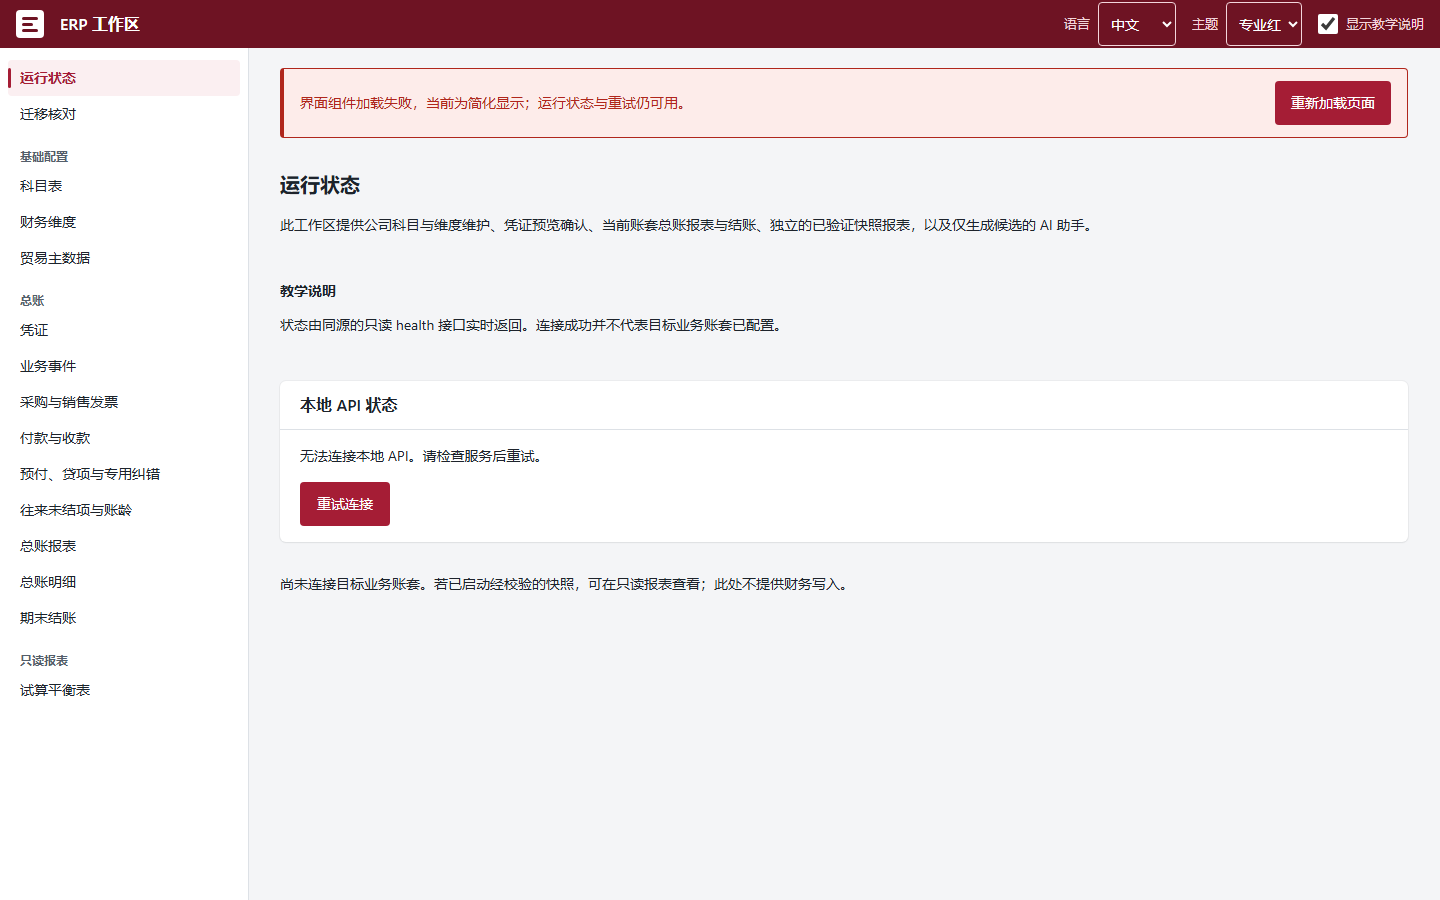
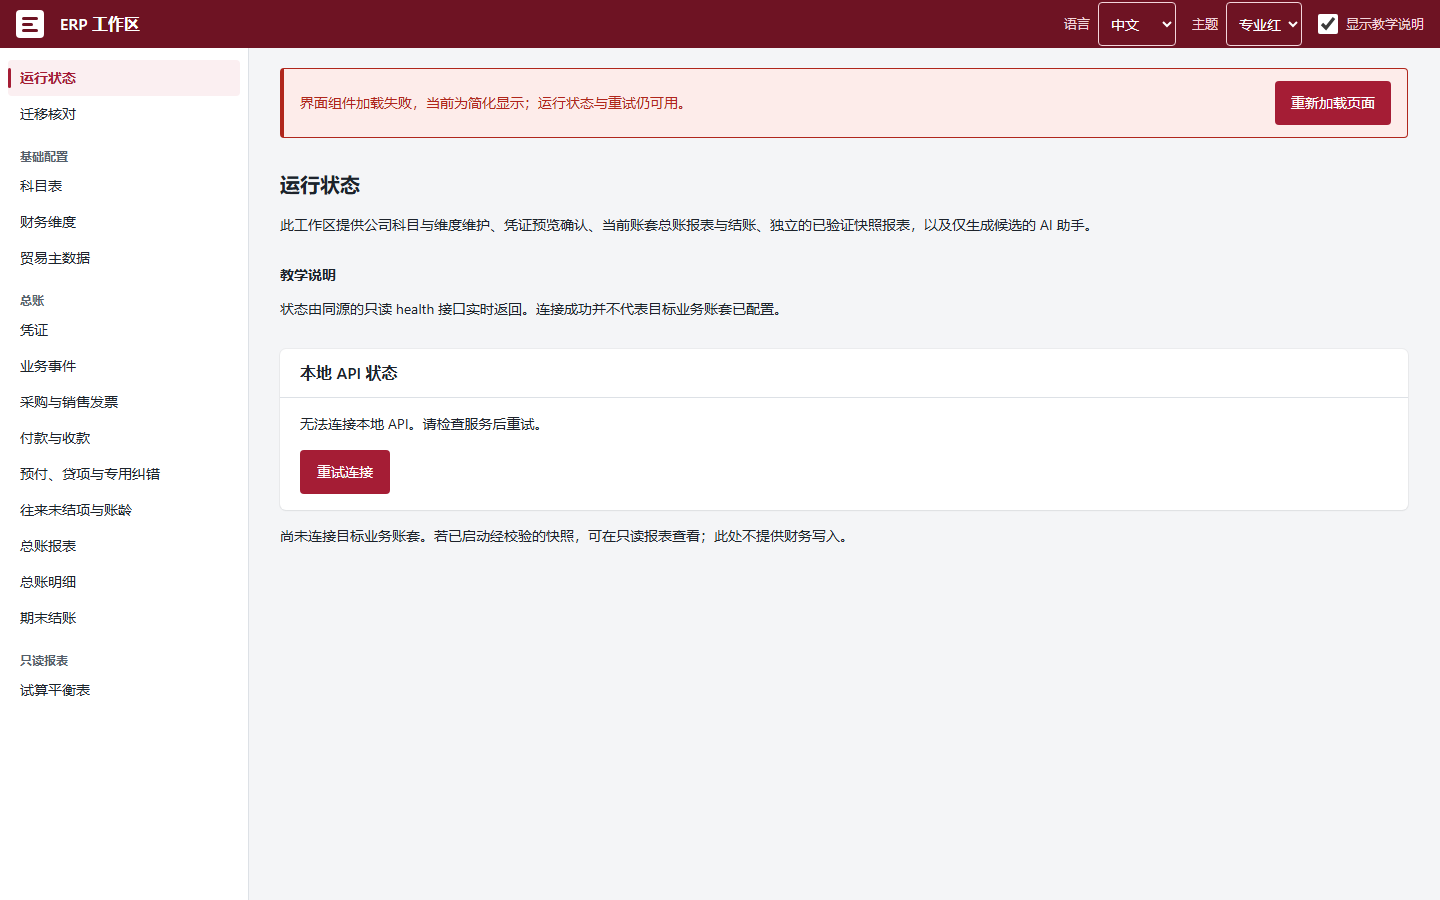
UI-07d: keep pending Overview placeholder out of the accessibility tree
Wrap the header, teaching tip, status card and data warning in an always-present
.overview-content that is inert + aria-hidden while the shared chunk loads; the loading
note is the only exposed role=status. The health status node is never replaced.
Add a11y-tree assertions to overview-shared-ui.test.tsx and stability.mjs.

Changed region(s): [[0.1875, 0.4044, 0.5938, 0.6533], [0.1875, 0.28, 0.5625, 0.3733]]

diff --git a/packages/web/src/App.tsx b/packages/web/src/App.tsx
@@ -379,9 +379,9 @@ type SharedUi = {
 };
 // The shared components stay in their own chunk (D39): a static import here would fold them and
 // components.css into the entry. Until that chunk arrives Overview keeps its final DOM in place
-// but transparent and inert (only the loading text inside the stable status region), so nothing
-// becomes operable before the final layout. If the chunk fails, the same content is shown with
-// these plain stand-ins and a visible reload notice.
+// but transparent, inert and aria-hidden (the status region inside is never replaced); only the
+// loading note is visible and exposed. Nothing becomes operable before the final layout. If the
+// chunk fails, the same content is shown with these plain stand-ins and a visible reload notice.
 const plainUi: SharedUi = {
   Badge: ({ children }) => <span>{children}</span>,
   MessageBar: ({ children }) => <div>{children}</div>,
@@ -439,10 +439,9 @@ function Overview({ preferences }: { preferences: Preferences }) {
   return (
     <div
       className={`page overview-page${pending ? " overview-pending" : ""}${uiState === "failed" ? " overview-degraded" : ""}`}
-      aria-busy={pending || undefined}
     >
       {pending && (
-        <p className="overview-pending-note" aria-hidden="true">
+        <p className="overview-pending-note" role="status">
           {t("shell.uiLoading")}
         </p>
       )}
@@ -454,78 +453,81 @@ function Overview({ preferences }: { preferences: Preferences }) {
           </button>
         </div>
       )}
-      <PageHeader title={t("shell.overview")} description={t("shell.intro")} />
-      <TeachingTip teaching={preferences.teaching} title={t("shell.teachingTitle")}>
-        {t("shell.teachingNote")}
-      </TeachingTip>
-      <section className="card" aria-labelledby="health-heading">
-        <header>
-          <h3 id="health-heading">{t("shell.healthHeading")}</h3>
-        </header>
-        <div className="body">
-          <div className="overview-status" role="status" aria-live="polite" aria-atomic="true">
-            {health.kind === "loading" && (
-              <p className="overview-loading">{t("shell.healthLoading")}</p>
-            )}
-            {health.kind === "ready" && (
-              <>
-                <p className="overview-connection">
-                  <Badge tone="success">{t("shell.connected")}</Badge>
-                </p>
-                <dl className="overview-facts">
-                  <div>
-                    <dt>{t("shell.service")}</dt>
-                    <dd>{health.health.service}</dd>
-                  </div>
-                  <div>
-                    <dt>{t("shell.contract")}</dt>
-                    <dd>
-                      <span>{health.health.contractVersion}</span>
-                      <Badge tone="success">{t("shell.compatible")}</Badge>
-                    </dd>
-                  </div>
-                  <div>
-                    <dt>{t("shell.profile")}</dt>
-                    <dd>{t("shell.local")}</dd>
-                  </div>
-                  <div>
-                    <dt>{t("shell.data")}</dt>
-                    <dd>
-                      <Badge tone={configured ? "success" : "warning"}>
-                        {t(configured ? "shell.configured" : "shell.unconfigured")}
-                      </Badge>
-                    </dd>
-                  </div>
-                </dl>
-              </>
-            )}
-            {(health.kind === "networkError" || health.kind === "invalidResponse") && (
-              <MessageBar tone="danger">{t(`shell.${health.kind}`)}</MessageBar>
-            )}
-            {health.kind === "httpError" && (
-              <MessageBar tone="danger">
-                {label(language, "shell.httpError", { status: health.status })}
-              </MessageBar>
+      {/* Always present so the status region below is never replaced; only a placeholder while pending. */}
+      <div className="overview-content" inert={pending} aria-hidden={pending || undefined}>
+        <PageHeader title={t("shell.overview")} description={t("shell.intro")} />
+        <TeachingTip teaching={preferences.teaching} title={t("shell.teachingTitle")}>
+          {t("shell.teachingNote")}
+        </TeachingTip>
+        <section className="card" aria-labelledby="health-heading">
+          <header>
+            <h3 id="health-heading">{t("shell.healthHeading")}</h3>
+          </header>
+          <div className="body">
+            <div className="overview-status" role="status" aria-live="polite" aria-atomic="true">
+              {health.kind === "loading" && (
+                <p className="overview-loading">{t("shell.healthLoading")}</p>
+              )}
+              {health.kind === "ready" && (
+                <>
+                  <p className="overview-connection">
+                    <Badge tone="success">{t("shell.connected")}</Badge>
+                  </p>
+                  <dl className="overview-facts">
+                    <div>
+                      <dt>{t("shell.service")}</dt>
+                      <dd>{health.health.service}</dd>
+                    </div>
+                    <div>
+                      <dt>{t("shell.contract")}</dt>
+                      <dd>
+                        <span>{health.health.contractVersion}</span>
+                        <Badge tone="success">{t("shell.compatible")}</Badge>
+                      </dd>
+                    </div>
+                    <div>
+                      <dt>{t("shell.profile")}</dt>
+                      <dd>{t("shell.local")}</dd>
+                    </div>
+                    <div>
+                      <dt>{t("shell.data")}</dt>
+                      <dd>
+                        <Badge tone={configured ? "success" : "warning"}>
+                          {t(configured ? "shell.configured" : "shell.unconfigured")}
+                        </Badge>
+                      </dd>
+                    </div>
+                  </dl>
+                </>
+              )}
+              {(health.kind === "networkError" || health.kind === "invalidResponse") && (
+                <MessageBar tone="danger">{t(`shell.${health.kind}`)}</MessageBar>
+              )}
+              {health.kind === "httpError" && (
+                <MessageBar tone="danger">
+                  {label(language, "shell.httpError", { status: health.status })}
+                </MessageBar>
+              )}
+            </div>
+            {health.kind !== "loading" && health.kind !== "ready" && (
+              <div className="overview-actions">
+                <button
+                  type="button"
+                  className="btn btn-primary"
+                  onClick={() => setAttempt((previous) => previous + 1)}
+                >
+                  {t("shell.retry")}
+                </button>
+              </div>
             )}
           </div>
-          {health.kind !== "loading" && health.kind !== "ready" && (
-            <div className="overview-actions">
-              <button
-                type="button"
-                className="btn btn-primary"
-                onClick={() => setAttempt((previous) => previous + 1)}
-              >
-                {t("shell.retry")}
-              </button>
-            </div>
-          )}
-        </div>
-      </section>
-      {!configured && (
-        <section aria-label={t("shell.data")}>
-          <MessageBar tone="warning">{t("shell.dataWarning")}</MessageBar>
         </section>
-      )}
+        {!configured && (
+          <section aria-label={t("shell.data")}>
+            <MessageBar tone="warning">{t("shell.dataWarning")}</MessageBar>
+          </section>
+        )}
+      </div>
     </div>
   );
 }

diff --git a/packages/web/test/overview-shared-ui.test.tsx b/packages/web/test/overview-shared-ui.test.tsx
@@ -1,40 +1,88 @@
-import { act, render, screen } from "@testing-library/react";
-import { expect, it, vi } from "vitest";
+import { act, render, screen, within } from "@testing-library/react";
+import { isInaccessible } from "@testing-library/dom";
+import { beforeEach, expect, it, vi } from "vitest";
 import { label } from "../src/ui/index.ts";
-import { App } from "../src/App.tsx";
 
-// The shared components chunk is held back and then fails, as when components-*.js/css is slow or blocked.
-const gate = vi.hoisted(() => {
+type SharedModule = typeof import("../src/ui/components/index.tsx");
+
+// The shared components chunk is held back per test, as when components-*.js/css is slow, then
+// either arrives or fails (blocked).
+const gate = vi.hoisted(() => ({
+  current: undefined as
+    | undefined
+    | {
+        promise: Promise<SharedModule>;
+        resolve: (module: SharedModule) => void;
+        reject: (error: Error) => void;
+      },
+}));
+
+beforeEach(() => {
+  let resolve!: (module: SharedModule) => void;
   let reject!: (error: Error) => void;
-  const promise = new Promise<never>((_resolve, rejectPromise) => {
+  const promise = new Promise<SharedModule>((resolvePromise, rejectPromise) => {
+    resolve = resolvePromise;
     reject = rejectPromise;
   });
-  return { promise, reject };
+  gate.current = { promise, resolve, reject };
+  vi.resetModules();
+  vi.doMock("../src/ui/components/index.tsx", () => promise);
 });
-vi.mock("../src/ui/components/index.tsx", () => gate.promise);
 
-it("keeps the status region and controls inert until the shared chunk settles, then degrades visibly", async () => {
-  vi.stubGlobal("fetch", vi.fn<typeof fetch>().mockRejectedValue(new Error("offline")));
-  const { container } = render(<App />);
-  const status = screen.getByRole("status");
-  const loading = screen.getByText(label("zh", "shell.healthLoading"));
+async function renderPending() {
+  const { App } = await import("../src/App.tsx");
+  const view = render(<App />);
+  const page = view.container.querySelector<HTMLElement>(".overview-page")!;
+  const status = page.querySelector<HTMLElement>(".overview-status")!;
   await act(async () => {
     await new Promise((resolve) => setTimeout(resolve, 20));
   });
-  // Health has failed already, but nothing is shown or operable before the final layout exists.
+  // Pending: the loading note is the only exposed (and only live) content; the transparent
+  // placeholder with heading, status and the not-yet-judged data warning is inert and hidden.
+  const exposed = within(page);
+  expect(exposed.getByRole("status").textContent).toBe(label("zh", "shell.uiLoading"));
+  expect(exposed.queryByRole("heading")).toBeNull();
+  expect(exposed.queryByRole("region")).toBeNull();
+  expect(exposed.queryByRole("button")).toBeNull();
+  expect(isInaccessible(status)).toBe(true);
+  expect(isInaccessible(screen.getByText(label("zh", "shell.dataWarning")))).toBe(true);
+  expect(page.querySelector(".overview-content")?.hasAttribute("inert")).toBe(true);
+  // Health has failed already, but it is not shown before the final layout exists.
   expect(screen.queryByText(label("zh", "shell.networkError"))).toBeNull();
-  expect(screen.queryByRole("button")).toBeNull();
-  expect(screen.getByText(label("zh", "shell.healthLoading"))).toBe(loading);
-  expect(container.querySelector(".overview-page")?.getAttribute("aria-busy")).toBe("true");
+  expect(status.textContent).toBe(label("zh", "shell.healthLoading"));
+  return { page, status };
+}
 
+it("exposes the final page with the same status region once the shared chunk arrives", async () => {
+  vi.stubGlobal("fetch", vi.fn<typeof fetch>().mockRejectedValue(new Error("offline")));
+  const { page, status } = await renderPending();
+  const actual = await vi.importActual<SharedModule>("../src/ui/components/index.tsx");
   await act(async () => {
-    gate.reject(new Error("Unable to preload CSS"));
-    await gate.promise.catch(() => undefined);
+    gate.current!.resolve(actual);
+    await gate.current!.promise;
   });
-  expect(screen.getByRole("status")).toBe(status);
-  expect(screen.getByRole("alert").textContent).toContain(label("zh", "shell.uiFailed"));
-  expect(screen.getByRole("button", { name: label("zh", "shell.uiReload") })).toBeTruthy();
-  expect(screen.getByText(label("zh", "shell.networkError"))).toBeTruthy();
-  expect(screen.getByRole("button", { name: label("zh", "shell.retry") })).toBeTruthy();
-  expect(container.querySelector(".overview-page")?.hasAttribute("aria-busy")).toBe(false);
+  const exposed = within(page);
+  expect(exposed.getByRole("status")).toBe(status);
+  expect(status.textContent).toContain(label("zh", "shell.networkError"));
+  expect(exposed.getByRole("heading", { name: label("zh", "shell.overview") })).toBeTruthy();
+  expect(exposed.getByRole("region", { name: label("zh", "shell.data") })).toBeTruthy();
+  expect(exposed.getByRole("button", { name: label("zh", "shell.retry") })).toBeTruthy();
+  expect(exposed.queryByText(label("zh", "shell.uiLoading"))).toBeNull();
+  expect(page.querySelector(".overview-content")?.hasAttribute("inert")).toBe(false);
+});
+
+it("degrades visibly with the same status region when the shared chunk fails", async () => {
+  vi.stubGlobal("fetch", vi.fn<typeof fetch>().mockRejectedValue(new Error("offline")));
+  const { page, status } = await renderPending();
+  await act(async () => {
+    gate.current!.reject(new Error("Unable to preload CSS"));
+    await gate.current!.promise.catch(() => undefined);
+  });
+  const exposed = within(page);
+  expect(exposed.getByRole("status")).toBe(status);
+  expect(exposed.getByRole("alert").textContent).toContain(label("zh", "shell.uiFailed"));
+  expect(exposed.getByRole("button", { name: label("zh", "shell.uiReload") })).toBeTruthy();
+  expect(status.textContent).toContain(label("zh", "shell.networkError"));
+  expect(exposed.getByRole("button", { name: label("zh", "shell.retry") })).toBeTruthy();
+  expect(exposed.getByRole("heading", { name: label("zh", "shell.overview") })).toBeTruthy();
 });

diff --git a/packages/web/src/pages/overview.css b/packages/web/src/pages/overview.css
@@ -54,13 +54,17 @@
   gap: var(--space-3);
 }
 
-/* 共享组件 chunk 到达前：最终 DOM 已就位但透明且不可操作，只显示加载提示，到达后不再位移 */
+/* 共享组件 chunk 到达前：最终 DOM 已就位，但透明、inert、aria-hidden；只显示并播报加载提示，到达后不再位移 */
 .overview-page {
   position: relative;
 }
-.overview-pending > :not(.overview-pending-note) {
+.overview-content {
+  display: grid;
+  grid-template-columns: minmax(0, 1fr);
+  gap: var(--space-4);
+}
+.overview-pending .overview-content {
   opacity: 0;
-  pointer-events: none;
 }
 .overview-pending-note {
   position: absolute;
